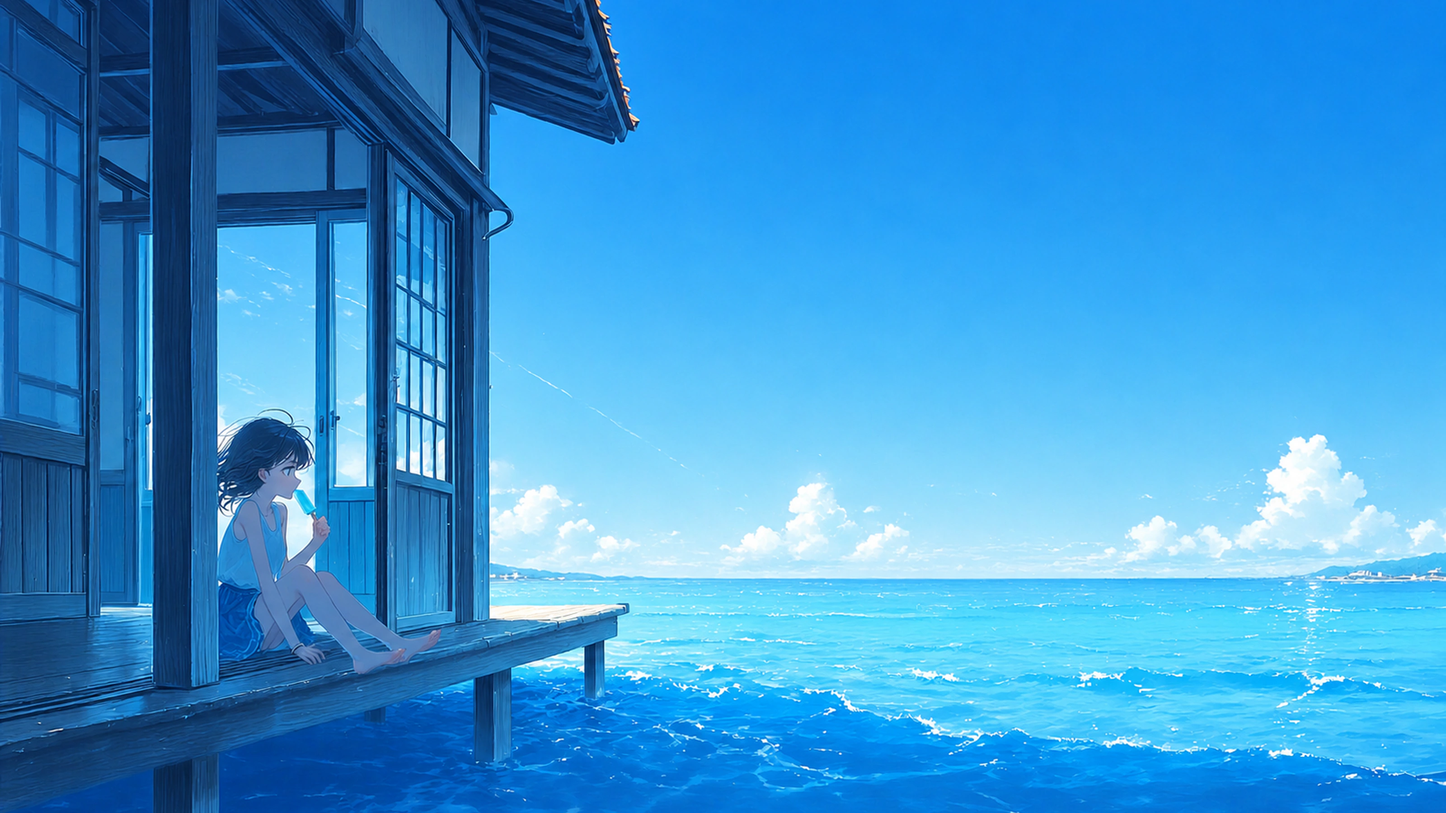
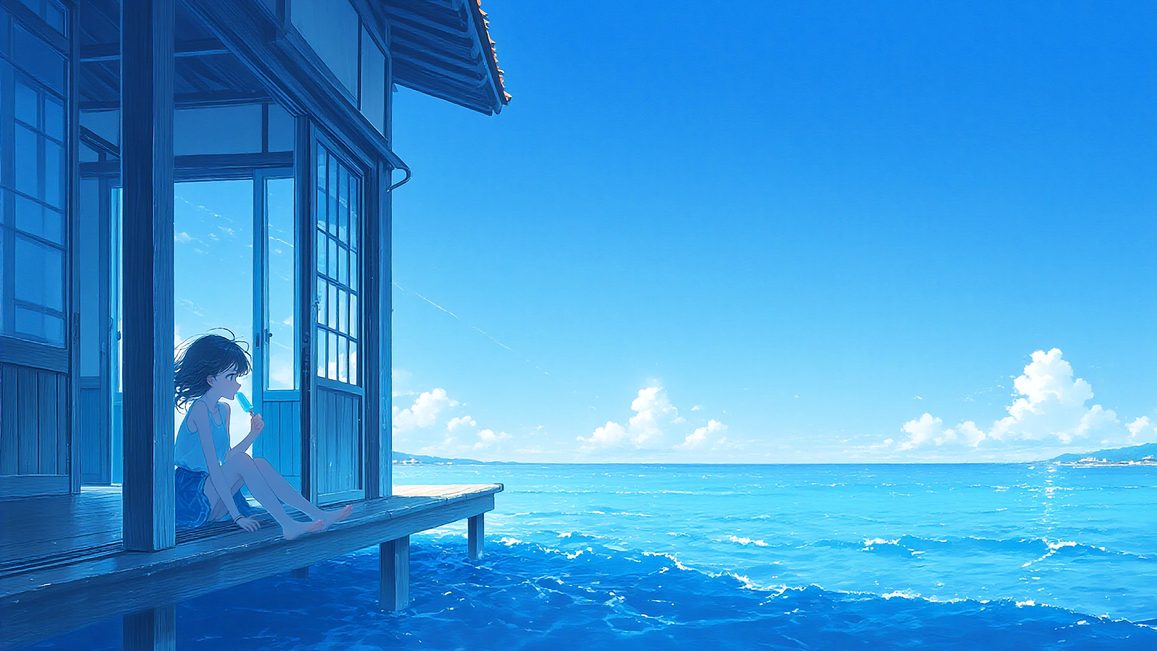
统一海天蓝主题并优化头图清晰度

diff --git a/src/config.ts b/src/config.ts
@@ -12,7 +12,7 @@ export const siteConfig: SiteConfig = {
 	subtitle: "AI、游戏与生活记录",
 	lang: "zh_CN", // Language code, e.g. 'en', 'zh_CN', 'ja', etc.
 	themeColor: {
-		hue: 305, // Default blue-purple hue, from 0 to 360
+		hue: 250, // Default ocean-blue hue, from 0 to 360
 		fixed: false, // Hide the theme color picker for visitors
 	},
 	banner: {

diff --git a/src/utils/setting-utils.ts b/src/utils/setting-utils.ts
@@ -15,6 +15,11 @@ export function getDefaultHue(): number {
 
 export function getHue(): number {
 	const stored = localStorage.getItem("hue");
+	if (stored === "305") {
+		const defaultHue = getDefaultHue();
+		localStorage.setItem("hue", String(defaultHue));
+		return defaultHue;
+	}
 	return stored ? Number.parseInt(stored, 10) : getDefaultHue();
 }
 
